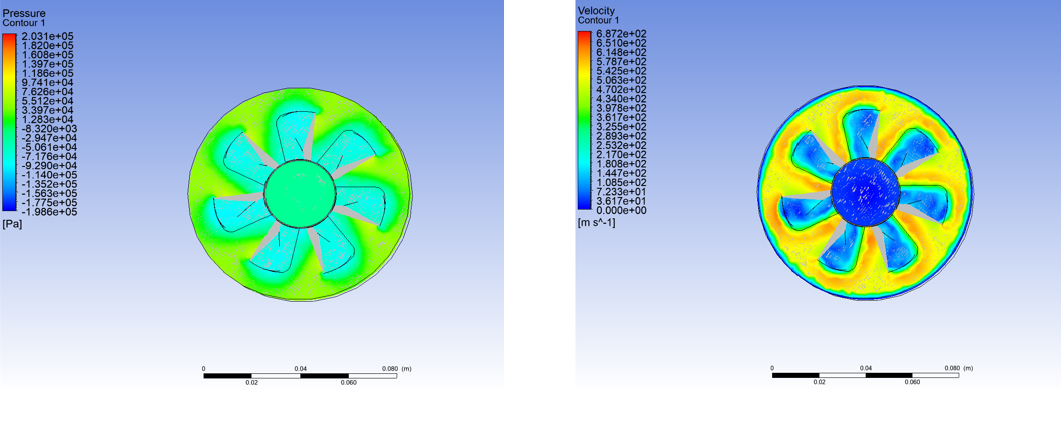
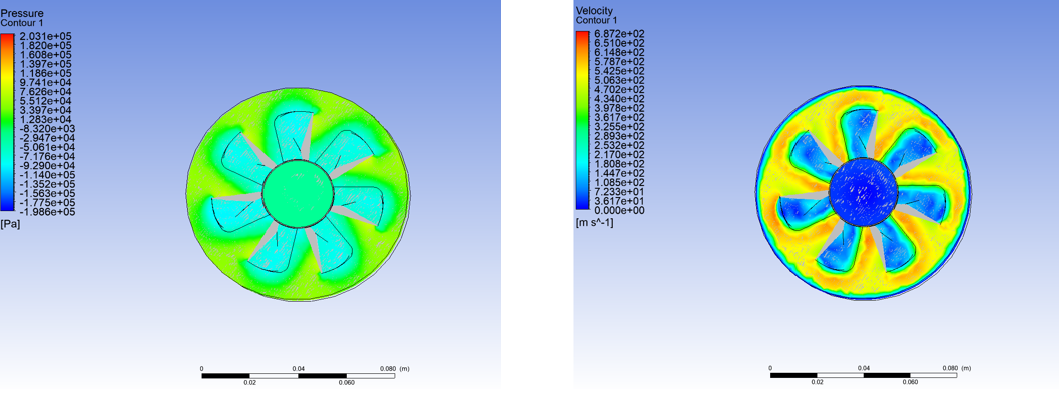
edit profile

diff --git a/project/reliability.html b/project/reliability.html
@@ -3,8 +3,8 @@
 <head>
     <meta charset="UTF-8">
     <meta name="viewport" content="width=device-width, initial-scale=1.0">
-    <link rel="icon" href="https://github.com/liu092111/liu092111.github.io/blob/master/icon/project.png?raw=true" type="image/x-icon">
-    <title>完整專案設計—機械設計</title>
+    <link rel="icon" href="https://github.com/liu092111/liu092111.github.io/blob/master/icon/internship.png?raw=true" type="image/x-icon">
+    <title>實習經歷—可靠度試驗</title>
     <style>
         /* 導入Google字體 */
         @import url('https://fonts.googleapis.com/css2?family=Noto+Sans+TC:wght@400;700&display=swap');
@@ -178,30 +178,36 @@
 
         /* 作品集區域樣式 */
         .portfolio-grid {
-        display: grid;
-        grid-template-columns: repeat(auto-fit, minmax(200px, 1fr));
-        gap: 20px;
-        text-align: center; 
+            display: grid;
+            grid-template-columns: repeat(3, 1fr);
+            gap: 20px;
+            text-align: center;
         }
 
         .portfolio-item {
-            display: flex; 
-            flex-direction: column; 
-            align-items: center; 
-            justify-content: center; 
+            display: flex;
+            flex-direction: column;
+            align-items: center;
+            justify-content: flex-start;
+            width: 100%;
+            max-width: 250px; /* 增加最大寬度 */
+            margin: 0 auto;
         }
 
         .portfolio-item img {
-            max-width: 100%;
-            height: auto;
+            width: 100%;
+            height: 150px; /* 固定高度，您可以根據需要調整 */
+            object-fit: contain; /* 改為contain，確保整個圖片可見 */
+            background-color: #f0f0f0; /* 添加背景色，使圖片邊界更清晰 */
             border-radius: 8px;
             box-shadow: 0 4px 8px rgba(0, 0, 0, 0.1);
-            margin-bottom: 10px; 
+            margin-bottom: 10px;
         }
 
         .portfolio-item p {
             margin-top: 10px;
             font-size: 14px;
+            text-align: center; /* 添加此行 */
         }
 
         /* 響應式設計 */
@@ -242,7 +248,7 @@
             </div>
             <div>
                 <!-- 姓名 -->
-                <h1>劉&nbsp;&nbsp;&nbsp;&nbsp;&nbsp;樺</h1>
+                <h1>&nbsp;劉&nbsp;&nbsp;&nbsp;&nbsp;&nbsp;樺</h1>
                 <!-- 聯繫信息 -->
                 <div class="contact-info">
                     <p>📞 0908736900</p>
@@ -252,7 +258,7 @@
                 </div>
                 <!-- 個人優勢 -->
                 <div class="section">
-                    <h2>機械設計 — 應力分析</h2>
+                    <h2>實習經歷 — 可靠度試驗、FEA分析</h2>
                     <ul>
                         <li><strong>Situation:</strong></li>
                         <li>學術知識應用於實際工作場景中，利用Ansys和LabVIEW及DAQ進行可靠度試驗</li>
@@ -320,7 +326,43 @@
                     </div>
                 </section>
             </div>
-        </div>        
+        </div>
+        
+        <div class="content">
+            <div class="column">
+                <!-- 可靠度試驗作品集部分 -->
+                <section class="section">
+                    <h2>可靠度試驗 (2023 Sep-2024 Apr)</h2>
+                    <div class="portfolio-grid">
+                        <div class="portfolio-item">
+                            <img src="https://github.com/liu092111/liu092111.github.io/blob/master/picture/SGS%20Inspection%20Intern/Reliability%20Test/Thermal%20Test.jpg?raw=true" alt="溫度試驗">
+                            <p>溫度試驗</p>
+                        </div>
+                        <div class="portfolio-item">
+                            <img src="https://github.com/liu092111/liu092111.github.io/blob/master/picture/SGS%20Inspection%20Intern/Reliability%20Test/Vibration%20Test.png?raw=true" alt="振動試驗">
+                            <p>振動試驗</p>
+                        </div>
+                        <div class="portfolio-item">
+                            <img src="https://github.com/liu092111/liu092111.github.io/blob/master/picture/SGS%20Inspection%20Intern/Reliability%20Test/Thermal%20Vibrational%20Test.png?raw=true" alt="複合式試驗(振動+溫度)">
+                            <p>複合式試驗(振動+溫度)</p>
+                        </div>
+                        <div class="portfolio-item">
+                            <img src="https://github.com/liu092111/liu092111.github.io/blob/master/picture/SGS%20Inspection%20Intern/Reliability%20Test/Shock%20Test.png?raw=true" alt="衝擊試驗">
+                            <p>衝擊試驗</p>
+                        </div>
+                        <div class="portfolio-item">
+                            <img src="https://github.com/liu092111/liu092111.github.io/blob/master/picture/SGS%20Inspection%20Intern/Reliability%20Test/Waterproof%20Test.png?raw=true" alt="防水試驗">
+                            <p>防水試驗</p>
+                        </div>
+                        <div class="portfolio-item">
+                            <img src="https://github.com/liu092111/liu092111.github.io/blob/master/picture/SGS%20Inspection%20Intern/Reliability%20Test/Dustproof%20Test.png?raw=true" alt="防塵試驗">
+                            <p>防塵試驗</p>
+                        </div>
+                    </div>
+                </section>
+            </div>
+        </div>
+
     </div>
 </body>
 </html>

diff --git a/project/robot design.html b/project/robot design.html
@@ -261,15 +261,18 @@
                     <h2>自動控制 — EV3機器人</h2>
                     <ul>
                         <li><strong>Situation:</strong></li>
-                        <li>使用EV3機器人套組，搭配感測器和編程模組，<br>設計並控制機器人完成不同任務</li>
-                        <li><strong>Task:</strong></li>
-                        <li>熟悉並整合套組中的各種感測器，編寫程式碼來控制機器人</li>
+                        <li>設計並控制機器人完成不同任務</li>
+                        <li><strong>Task:</strong></li></li>
+                        <li>熟悉並整合各種感測器，編寫程式碼來控制機器人</li>
                         <li><strong>Action:</strong></li>
-                        <li>整合接觸感測器、紅外線感測器和超聲波感測器，撰寫適應性程式碼</li>
+                        <li>使用適當的感測器和控制器，設計並實現機器人的自主行為</li>
+                        <li>建立有效協作機制，確保機器人間能夠協同工作完成任務</li>
                         <li>實現路徑規劃、運動控制和避障功能</li>
+                        <li>測試和調整機器人的功能，以確保其在實際操作中的可靠性</li>
                         <li><strong>Result:</strong></li>
-                        <li>運用數學、科學及工程原理，以系統化方法解決工程問題</li>
-                        <li>解決問題和創造性設計的能力，將理論知識應用於實際情境</li>
+                        <li>機器人設計和製作的過程，包括機械結構、電路和程式設計</li>
+                        <li>發掘、分析及處理問題的能力，運用數學、科學及工程原理，<br>以系統化方法解決工程問題</li>
+                        <li>有效溝通與團隊合作</li>
                     </ul>
                 </div>
             </div>

diff --git a/project/mechanical_design.html b/project/mechanical_design.html
@@ -253,15 +253,18 @@
                 </div>
                 <!-- 個人優勢 -->
                 <div class="section">
-                    <h2>機械設計 — 應力分析</h2>
+                    <h2>機械設計 — 繪圖、應力分析</h2>
                     <ul>
                         <li><strong>Situation:</strong></li>
-                        <li>進行應力結構分析，並與理論結果進行比較</li>
+                        <li>在大二之前，對電腦繪圖完全沒有接觸</li>
                         <li><strong>Task:</strong></li>
-                        <li>未曾接觸過有限元素分析。理論難以應對過於複雜的結構，需要進行簡化</li>
+                        <li>熟練使用軟體繪製零件工程圖，應用於機械設計</li>
+                        <li>根據已知條件（壓力角和模數）計算並設計齒輪</li>
+                        <li>應力結構分析，並與理論結果進行比較</li>
                         <li><strong>Action:</strong></li>
-                        <li>將複雜的結構進行簡化，並自學有限元素分析方法後進行分析</li>
-                        <li>針對不同工程問題，如動態載荷、非線性材料和疲勞壽命分析，<br>進行結構研究，確保結果與理論結果吻合</li>
+                        <li>尋找學習資源，並自學有限元素分析方法後進行分析</li>
+                        <li>研究不同工程問題，如動態載荷、非線性材料和疲勞壽命分析</li>
+                        <li>完成運動分析，進行齒輪干涉檢查，並根據需要對設計進行調整</li>
                         <li><strong>Result:</strong></li>
                         <li>針對不同的問題去自學相應知識並應用</li>
                         <li>提升機械系統規劃及實現設計的能力</li>

diff --git a/project/numerical_analysis.html b/project/numerical_analysis.html
@@ -256,15 +256,18 @@
                     <h2>數值分析 — Matlab</h2>
                     <ul>
                         <li><strong>Situation:</strong></li>
+                        <li>瞭解量測系統的基本特性，並進行精密量測系統的概念設計</li>
                         <li>Matlab解決工程中的數學和計算問題，以提升工作效率</li>
                         <li><strong>Task:</strong></li>
-                        <li>解決包括曲線擬合、迴歸分析、矩陣方程式、<br>常微分方程式及偏微分方程式等工程問題</li>
+                        <li>以任課老師實驗室的儀器為基礎，進行系統概念設計及個案討論</li>
+                        <li>分析包括曲線擬合、迴歸分析、矩陣方程式、<br>常微分方程式及偏微分方程式等工程問題</li>
                         <li><strong>Action:</strong></li>
-                        <li>解決工程問題，如檔案和影像處理、動畫製作及隨機模</li>
-                        <li>應用數值分析方法解決各類型的工程計算問題</li>
+                        <li>選定五軸加工機，監測在不同轉速下的時域和頻域訊號</li>
+                        <li>設計實驗架設、數據擷取、數據處理及資料分析</li>
+                        <li>解決工程問題，如檔案和影像處理、動畫製作及隨機模擬</li>
                         <li><strong>Result:</strong></li>
+                        <li>熟悉量測系統的基本原理及資料表示注意事項</li>
                         <li>數值分析方法及電腦運算原理，提升數學計算能力</li>
-                        <li>提高在工程計算的熟練度，能獨立完成複雜任務</li>
                     </ul>
                 </div>
             </div>

diff --git a/quick_links_components.js b/quick_links_components.js
@@ -135,7 +135,7 @@ export function QuickLinksWindow(options = {}) {
                     <div class="link-section">
                         <h4>實習經歷</h4>
                         <ul>
-                            <li>${createLink('ansys.html', 'Ansys建模自動化 (2024)')}</li>
+                            <!--<li>${createLink('ansys.html', 'Ansys建模自動化 (2024)')}</li>-->
                             <li>${createLink('reliability.html', '可靠度試驗、FEA (2023)')}</li>
                         </ul>
                     </div>

diff --git a/index.html b/index.html
@@ -301,11 +301,11 @@
                 </ul>
                 <p>機構設計分析類</p>
                 <ul>
-                    <li>Ansys/ Comsol/ Solidworks/ AutoCAD</li>
+                    <li>Ansys/ Solidworks/ AutoCAD</li>
                 </ul>
                 <p>辦公室應用類</p>
                 <ul>
-                    <li>Word/Excel/PowerPoint/ Outlook</li>
+                    <li>Word/ Excel/ PowerPoint/ Outlook</li>
                 </ul>
             </section>
 
